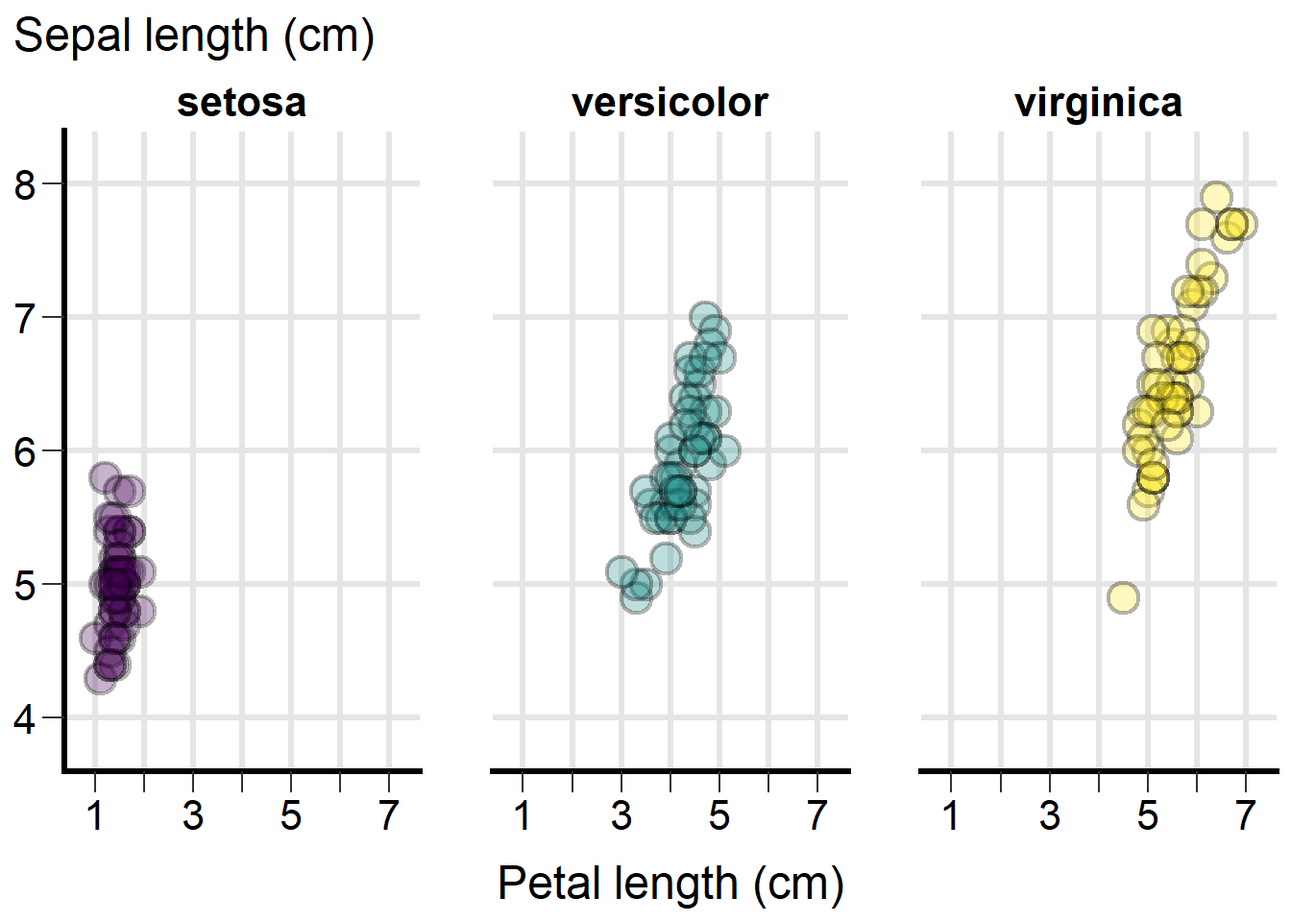
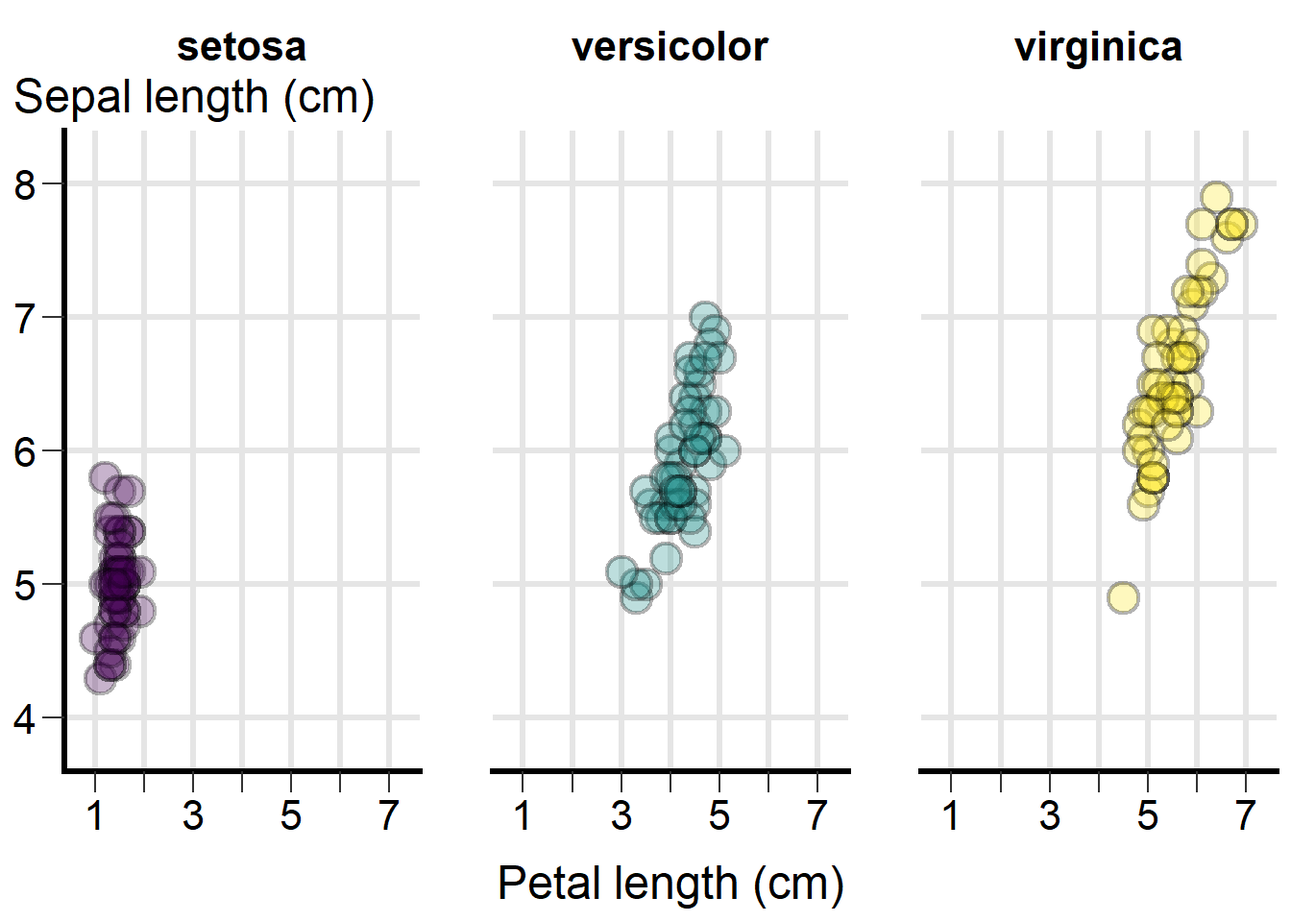
Bringing manual and readme up to 0.1.9.

diff --git a/docs/index.html b/docs/index.html
@@ -112,7 +112,7 @@ pre > code.sourceCode > span > a:first-child::before { text-decoration: underlin
 <div class="cell-output cell-output-stdout">
 <pre><code>
 ── R CMD build ─────────────────────────────────────────────────────────────────
-* checking for file 'C:\Users\Bajcz\AppData\Local\Temp\RtmpOQ6aFn\remotes190cdba5567\MAISRC-ggplot_plus-829415d/DESCRIPTION' ... OK
+* checking for file 'C:\Users\Bajcz\AppData\Local\Temp\Rtmpgpp96x\remotes427c5818649c\MAISRC-ggplot_plus-2eac06b/DESCRIPTION' ... OK
 * preparing 'ggplot.plus':
 * checking DESCRIPTION meta-information ... OK
 * checking for LF line-endings in source and make files and shell scripts
@@ -704,7 +704,7 @@ However, <code>palettes_plus()</code> excludes, by default, both the darkest pur
 </div>
 </div>
 </div>
-<p>Here’s how you’d relocate the legend to its normal position. But, if you do this, I’d adjust some of its spacing settings also, as the defaults are built for horizontal rather than vertical orientation:</p>
+<p>Here’s how you’d relocate the legend to its normal position–the theme will automatically apply some styling unique to this position instead:</p>
 <div class="cell">
 <div class="sourceCode cell-code" id="cb26"><pre class="sourceCode r code-with-copy"><code class="sourceCode r"><span id="cb26-1"><a href="#cb26-1" aria-hidden="true" tabindex="-1"></a><span class="fu">ggplot</span>(iris,</span>
 <span id="cb26-2"><a href="#cb26-2" aria-hidden="true" tabindex="-1"></a>       <span class="at">mapping =</span> <span class="fu">aes</span>(<span class="at">x =</span> Petal.Length, </span>
@@ -714,7 +714,7 @@ However, <code>palettes_plus()</code> excludes, by default, both the darkest pur
 <span id="cb26-6"><a href="#cb26-6" aria-hidden="true" tabindex="-1"></a>            <span class="at">alpha =</span> <span class="fl">0.3</span>) <span class="sc">+</span></span>
 <span id="cb26-7"><a href="#cb26-7" aria-hidden="true" tabindex="-1"></a>  <span class="fu">scale_x_continuous_plus</span>(<span class="at">name =</span> <span class="st">"Petal length (cm)"</span>, <span class="at">thin_labels =</span> <span class="cn">TRUE</span>) <span class="sc">+</span></span>
 <span id="cb26-8"><a href="#cb26-8" aria-hidden="true" tabindex="-1"></a>  <span class="fu">scale_y_continuous_plus</span>(<span class="at">name =</span> <span class="st">"Sepal length (cm)"</span>) <span class="sc">+</span> </span>
-<span id="cb26-9"><a href="#cb26-9" aria-hidden="true" tabindex="-1"></a>  <span class="fu">theme_plus</span>(<span class="at">legend_pos =</span> <span class="cn">FALSE</span>) <span class="co">#&lt;--ANY VALUE OTHER THAN THE DEFAULT "top" RESTORES ENSURES RIGHT-HAND LEGEND. </span></span></code><button title="Copy to Clipboard" class="code-copy-button"><i class="bi"></i></button></pre></div>
+<span id="cb26-9"><a href="#cb26-9" aria-hidden="true" tabindex="-1"></a>  <span class="fu">theme_plus</span>(<span class="at">legend_pos =</span> <span class="cn">FALSE</span>) <span class="co">#&lt;--ANY VALUE OTHER THAN THE DEFAULT "top" RESTORES RIGHT-HAND LEGEND. </span></span></code><button title="Copy to Clipboard" class="code-copy-button"><i class="bi"></i></button></pre></div>
 <div class="cell-output-display">
 <div>
 <figure class="figure">
@@ -723,7 +723,7 @@ However, <code>palettes_plus()</code> excludes, by default, both the darkest pur
 </div>
 </div>
 </div>
-<p>Personally, I don’t really like this…it feels a bit wasteful in terms of space. But if you like it, that’s ultimately what matters! Like the rest of the <code>ggplot.plus</code> toolkit, <code>theme_plus()</code> is meant to be a smart starting point, <strong>not</strong> a “final destination.” Its outputs won’t be ideal for every plot, person, or context (I don’t think that’s even remotely possible!), but it’s designed to save you time by making it so there are at least <em>fewer</em> adjustments you need to make to get your graphs up to modern design standards.</p>
+<p>Personally, I don’t really like this, but it’s an option if you really prefer it! Like the rest of the <code>ggplot.plus</code> toolkit, <code>theme_plus()</code> is meant to be a smart starting point, <strong>not</strong> a “final destination.” Its outputs won’t be ideal for every plot, person, or context (I don’t think that’s even remotely possible!), but it’s designed to save you time by making it so there are at least <em>fewer</em> adjustments you need to make to get your graphs up to modern design standards.</p>
 <p>There are a few theme considerations that apply only to color bars, which are the legend components you see when you map <code>color</code> or <code>fill</code> to a continuous variable. Let’s map a continuous variable to <code>fill</code> to get such a legend:</p>
 <div class="cell">
 <div class="sourceCode cell-code" id="cb27"><pre class="sourceCode r code-with-copy"><code class="sourceCode r"><span id="cb27-1"><a href="#cb27-1" aria-hidden="true" tabindex="-1"></a><span class="fu">ggplot</span>(iris,</span>
@@ -1309,7 +1309,8 @@ inside geom_plus() to TRUE to hide this and other messages.</code></pre>
 <span id="cb51-8"><a href="#cb51-8" aria-hidden="true" tabindex="-1"></a>  <span class="fu">theme_plus</span>() <span class="sc">+</span> </span>
 <span id="cb51-9"><a href="#cb51-9" aria-hidden="true" tabindex="-1"></a>  <span class="fu">yaxis_title_plus</span>() <span class="sc">+</span></span>
 <span id="cb51-10"><a href="#cb51-10" aria-hidden="true" tabindex="-1"></a>  <span class="fu">gridlines_plus</span>() <span class="sc">+</span></span>
-<span id="cb51-11"><a href="#cb51-11" aria-hidden="true" tabindex="-1"></a>  <span class="fu">scale_alpha</span>(<span class="at">guide =</span> <span class="st">"none"</span>)</span></code><button title="Copy to Clipboard" class="code-copy-button"><i class="bi"></i></button></pre></div>
+<span id="cb51-11"><a href="#cb51-11" aria-hidden="true" tabindex="-1"></a>  <span class="fu">scale_alpha</span>(<span class="at">guide =</span> <span class="st">"none"</span>) <span class="sc">+</span></span>
+<span id="cb51-12"><a href="#cb51-12" aria-hidden="true" tabindex="-1"></a>  <span class="fu">labs</span>(<span class="at">fill =</span> <span class="st">"Petal width (cm)"</span>) <span class="co">#&lt;--TO SATISFY THE PREVIOUS </span><span class="al">WARNING</span><span class="co">.</span></span></code><button title="Copy to Clipboard" class="code-copy-button"><i class="bi"></i></button></pre></div>
 <div class="cell-output cell-output-stderr">
 <pre><code>Warning: Petal.Width, the variable you mapped to fill, has 22 unique levels.
 Even with a high-quality palette, it's difficult to ensure all colors chosen
@@ -1318,15 +1319,6 @@ such cases, consider using a different visual channel, intersecting another
 visual channel (e.g., shape) with color, or reducing the number of groups
 shown. Set silence_warnings inside geom_plus() to TRUE to hide this and other
 messages.</code></pre>
-</div>
-<div class="cell-output cell-output-stderr">
-<pre><code>Warning: It looks like you haven't provided a custom title for variable(s)
-Petal.Width, mapped to the following aesthetic(s), respectively: fill. This
-means the title(s) are probably still the column name(s) from your data set,
-which may not be human-readable, nicely formatted, and intuitive and contain
-units (if any). We recommend using a scale*() function to specify a custom
-title for each such scale. Set silence_warnings inside geom_plus() to TRUE to
-hide this and other messages.</code></pre>
 </div>
 <div class="cell-output-display">
 <div>
@@ -1343,18 +1335,18 @@ hide this and other messages.</code></pre>
 <h2 class="anchored" data-anchor-id="known-issues">Known Issues</h2>
 <p>There’s a known limitation when using <code>yaxis_title_plus()</code> alongside a <strong>top-positioned x-axis</strong>. The relocated y-axis title will end up in the same horizontal “row” as the top x axis labels, causing them to clip into each other:</p>
 <div class="cell">
-<div class="sourceCode cell-code" id="cb54"><pre class="sourceCode r code-with-copy"><code class="sourceCode r"><span id="cb54-1"><a href="#cb54-1" aria-hidden="true" tabindex="-1"></a><span class="fu">ggplot</span>(iris,</span>
-<span id="cb54-2"><a href="#cb54-2" aria-hidden="true" tabindex="-1"></a>       <span class="at">mapping =</span> <span class="fu">aes</span>(<span class="at">x =</span> Petal.Length, </span>
-<span id="cb54-3"><a href="#cb54-3" aria-hidden="true" tabindex="-1"></a>           <span class="at">y =</span> Sepal.Length)) <span class="sc">+</span></span>
-<span id="cb54-4"><a href="#cb54-4" aria-hidden="true" tabindex="-1"></a>  <span class="fu">geom_plus</span>(<span class="at">geom =</span> <span class="st">"point"</span>, </span>
-<span id="cb54-5"><a href="#cb54-5" aria-hidden="true" tabindex="-1"></a>            <span class="at">mapping =</span> <span class="fu">aes</span>(<span class="at">fill =</span> Species),</span>
-<span id="cb54-6"><a href="#cb54-6" aria-hidden="true" tabindex="-1"></a>            <span class="at">alpha =</span> <span class="fl">0.3</span>) <span class="sc">+</span></span>
-<span id="cb54-7"><a href="#cb54-7" aria-hidden="true" tabindex="-1"></a>  <span class="fu">scale_x_continuous_plus</span>(<span class="at">name =</span> <span class="st">"Petal length (cm)"</span>, <span class="at">thin_labels =</span> <span class="cn">TRUE</span>,</span>
-<span id="cb54-8"><a href="#cb54-8" aria-hidden="true" tabindex="-1"></a>                          <span class="at">position =</span> <span class="st">"top"</span>) <span class="sc">+</span> <span class="co">#&lt;--MOVE X AXIS TO TOP OF THE GRAPH</span></span>
-<span id="cb54-9"><a href="#cb54-9" aria-hidden="true" tabindex="-1"></a>  <span class="fu">scale_y_continuous_plus</span>(<span class="at">name =</span> <span class="st">"Sepal length (cm)"</span>) <span class="sc">+</span> </span>
-<span id="cb54-10"><a href="#cb54-10" aria-hidden="true" tabindex="-1"></a>  <span class="fu">theme_plus</span>() <span class="sc">+</span> </span>
-<span id="cb54-11"><a href="#cb54-11" aria-hidden="true" tabindex="-1"></a>  <span class="fu">yaxis_title_plus</span>() <span class="sc">+</span></span>
-<span id="cb54-12"><a href="#cb54-12" aria-hidden="true" tabindex="-1"></a>  <span class="fu">gridlines_plus</span>()</span></code><button title="Copy to Clipboard" class="code-copy-button"><i class="bi"></i></button></pre></div>
+<div class="sourceCode cell-code" id="cb53"><pre class="sourceCode r code-with-copy"><code class="sourceCode r"><span id="cb53-1"><a href="#cb53-1" aria-hidden="true" tabindex="-1"></a><span class="fu">ggplot</span>(iris,</span>
+<span id="cb53-2"><a href="#cb53-2" aria-hidden="true" tabindex="-1"></a>       <span class="at">mapping =</span> <span class="fu">aes</span>(<span class="at">x =</span> Petal.Length, </span>
+<span id="cb53-3"><a href="#cb53-3" aria-hidden="true" tabindex="-1"></a>           <span class="at">y =</span> Sepal.Length)) <span class="sc">+</span></span>
+<span id="cb53-4"><a href="#cb53-4" aria-hidden="true" tabindex="-1"></a>  <span class="fu">geom_plus</span>(<span class="at">geom =</span> <span class="st">"point"</span>, </span>
+<span id="cb53-5"><a href="#cb53-5" aria-hidden="true" tabindex="-1"></a>            <span class="at">mapping =</span> <span class="fu">aes</span>(<span class="at">fill =</span> Species),</span>
+<span id="cb53-6"><a href="#cb53-6" aria-hidden="true" tabindex="-1"></a>            <span class="at">alpha =</span> <span class="fl">0.3</span>) <span class="sc">+</span></span>
+<span id="cb53-7"><a href="#cb53-7" aria-hidden="true" tabindex="-1"></a>  <span class="fu">scale_x_continuous_plus</span>(<span class="at">name =</span> <span class="st">"Petal length (cm)"</span>, <span class="at">thin_labels =</span> <span class="cn">TRUE</span>,</span>
+<span id="cb53-8"><a href="#cb53-8" aria-hidden="true" tabindex="-1"></a>                          <span class="at">position =</span> <span class="st">"top"</span>) <span class="sc">+</span> <span class="co">#&lt;--MOVE X AXIS TO TOP OF THE GRAPH</span></span>
+<span id="cb53-9"><a href="#cb53-9" aria-hidden="true" tabindex="-1"></a>  <span class="fu">scale_y_continuous_plus</span>(<span class="at">name =</span> <span class="st">"Sepal length (cm)"</span>) <span class="sc">+</span> </span>
+<span id="cb53-10"><a href="#cb53-10" aria-hidden="true" tabindex="-1"></a>  <span class="fu">theme_plus</span>() <span class="sc">+</span> </span>
+<span id="cb53-11"><a href="#cb53-11" aria-hidden="true" tabindex="-1"></a>  <span class="fu">yaxis_title_plus</span>() <span class="sc">+</span></span>
+<span id="cb53-12"><a href="#cb53-12" aria-hidden="true" tabindex="-1"></a>  <span class="fu">gridlines_plus</span>()</span></code><button title="Copy to Clipboard" class="code-copy-button"><i class="bi"></i></button></pre></div>
 <div class="cell-output cell-output-stderr">
 <pre><code>Warning: It looks like you haven't provided a custom title for variable(s)
 Species, mapped to the following aesthetic(s), respectively: fill. This means
@@ -1380,18 +1372,18 @@ Alternatively, set "location = 'bottom'" in switch_y_axis().</code></pre>
 </div>
 <p>You’ll notice that <code>yaxis_title_plus()</code> provides a warning in this case and gives you a suggestion as to how to work around it: you can use the <code>location = "bottom"</code> option in <code>yaxis_title_plus()</code> to relocate the y title beneath the plot instead:</p>
 <div class="cell">
-<div class="sourceCode cell-code" id="cb57"><pre class="sourceCode r code-with-copy"><code class="sourceCode r"><span id="cb57-1"><a href="#cb57-1" aria-hidden="true" tabindex="-1"></a><span class="fu">ggplot</span>(iris,</span>
-<span id="cb57-2"><a href="#cb57-2" aria-hidden="true" tabindex="-1"></a>       <span class="at">mapping =</span> <span class="fu">aes</span>(<span class="at">x =</span> Petal.Length, </span>
-<span id="cb57-3"><a href="#cb57-3" aria-hidden="true" tabindex="-1"></a>           <span class="at">y =</span> Sepal.Length)) <span class="sc">+</span></span>
-<span id="cb57-4"><a href="#cb57-4" aria-hidden="true" tabindex="-1"></a>  <span class="fu">geom_plus</span>(<span class="at">geom =</span> <span class="st">"point"</span>, </span>
-<span id="cb57-5"><a href="#cb57-5" aria-hidden="true" tabindex="-1"></a>            <span class="at">mapping =</span> <span class="fu">aes</span>(<span class="at">fill =</span> Species),</span>
-<span id="cb57-6"><a href="#cb57-6" aria-hidden="true" tabindex="-1"></a>            <span class="at">alpha =</span> <span class="fl">0.3</span>) <span class="sc">+</span></span>
-<span id="cb57-7"><a href="#cb57-7" aria-hidden="true" tabindex="-1"></a>  <span class="fu">scale_x_continuous_plus</span>(<span class="at">name =</span> <span class="st">"Petal length (cm)"</span>, <span class="at">thin_labels =</span> <span class="cn">TRUE</span>,</span>
-<span id="cb57-8"><a href="#cb57-8" aria-hidden="true" tabindex="-1"></a>                          <span class="at">position =</span> <span class="st">"top"</span>) <span class="sc">+</span> </span>
-<span id="cb57-9"><a href="#cb57-9" aria-hidden="true" tabindex="-1"></a>  <span class="fu">scale_y_continuous_plus</span>(<span class="at">name =</span> <span class="st">"Sepal length (cm)"</span>) <span class="sc">+</span> </span>
-<span id="cb57-10"><a href="#cb57-10" aria-hidden="true" tabindex="-1"></a>  <span class="fu">theme_plus</span>() <span class="sc">+</span></span>
-<span id="cb57-11"><a href="#cb57-11" aria-hidden="true" tabindex="-1"></a>  <span class="fu">yaxis_title_plus</span>(<span class="at">location =</span> <span class="st">"bottom"</span>) <span class="sc">+</span> <span class="co">#&lt;--MOVE  Y AXIS TITLE TO BOTTOM INSTEAD</span></span>
-<span id="cb57-12"><a href="#cb57-12" aria-hidden="true" tabindex="-1"></a>  <span class="fu">gridlines_plus</span>()</span></code><button title="Copy to Clipboard" class="code-copy-button"><i class="bi"></i></button></pre></div>
+<div class="sourceCode cell-code" id="cb56"><pre class="sourceCode r code-with-copy"><code class="sourceCode r"><span id="cb56-1"><a href="#cb56-1" aria-hidden="true" tabindex="-1"></a><span class="fu">ggplot</span>(iris,</span>
+<span id="cb56-2"><a href="#cb56-2" aria-hidden="true" tabindex="-1"></a>       <span class="at">mapping =</span> <span class="fu">aes</span>(<span class="at">x =</span> Petal.Length, </span>
+<span id="cb56-3"><a href="#cb56-3" aria-hidden="true" tabindex="-1"></a>           <span class="at">y =</span> Sepal.Length)) <span class="sc">+</span></span>
+<span id="cb56-4"><a href="#cb56-4" aria-hidden="true" tabindex="-1"></a>  <span class="fu">geom_plus</span>(<span class="at">geom =</span> <span class="st">"point"</span>, </span>
+<span id="cb56-5"><a href="#cb56-5" aria-hidden="true" tabindex="-1"></a>            <span class="at">mapping =</span> <span class="fu">aes</span>(<span class="at">fill =</span> Species),</span>
+<span id="cb56-6"><a href="#cb56-6" aria-hidden="true" tabindex="-1"></a>            <span class="at">alpha =</span> <span class="fl">0.3</span>) <span class="sc">+</span></span>
+<span id="cb56-7"><a href="#cb56-7" aria-hidden="true" tabindex="-1"></a>  <span class="fu">scale_x_continuous_plus</span>(<span class="at">name =</span> <span class="st">"Petal length (cm)"</span>, <span class="at">thin_labels =</span> <span class="cn">TRUE</span>,</span>
+<span id="cb56-8"><a href="#cb56-8" aria-hidden="true" tabindex="-1"></a>                          <span class="at">position =</span> <span class="st">"top"</span>) <span class="sc">+</span> </span>
+<span id="cb56-9"><a href="#cb56-9" aria-hidden="true" tabindex="-1"></a>  <span class="fu">scale_y_continuous_plus</span>(<span class="at">name =</span> <span class="st">"Sepal length (cm)"</span>) <span class="sc">+</span> </span>
+<span id="cb56-10"><a href="#cb56-10" aria-hidden="true" tabindex="-1"></a>  <span class="fu">theme_plus</span>() <span class="sc">+</span></span>
+<span id="cb56-11"><a href="#cb56-11" aria-hidden="true" tabindex="-1"></a>  <span class="fu">yaxis_title_plus</span>(<span class="at">location =</span> <span class="st">"bottom"</span>) <span class="sc">+</span> <span class="co">#&lt;--MOVE  Y AXIS TITLE TO BOTTOM INSTEAD</span></span>
+<span id="cb56-12"><a href="#cb56-12" aria-hidden="true" tabindex="-1"></a>  <span class="fu">gridlines_plus</span>()</span></code><button title="Copy to Clipboard" class="code-copy-button"><i class="bi"></i></button></pre></div>
 <div class="cell-output-display">
 <div>
 <figure class="figure">
@@ -1400,27 +1392,27 @@ Alternatively, set "location = 'bottom'" in switch_y_axis().</code></pre>
 </div>
 </div>
 </div>
-<p>This feels a little “backwards” to me at first, but it works!</p>
+<p>This feels a little “backwards” to us, but it works. Maybe it’d make good sense in a specific context wherein this reversing of the graph’s standard schema aids reader intuition.</p>
 <p>Now, if you instead <em>duplicate</em> the x-axis on <strong>both top and bottom</strong> or have a secondary x axis on the top, you won’t be able to relocate the y-axis title easily. In that case, the best fallback is probably to stick with the horizontal y-axis title broken across as many lines as possible using line breaks (<code>\n</code>), as shown earlier.</p>
 <section id="idealized-scatterplot-for-reference" class="level3">
 <h3 class="anchored" data-anchor-id="idealized-scatterplot-for-reference">Idealized scatterplot for reference</h3>
 <p>Here’s a “final” version of our scatterplot using all of <code>ggplot.plus</code>’s tools together:</p>
 <div class="cell">
-<div class="sourceCode cell-code" id="cb58"><pre class="sourceCode r code-with-copy"><code class="sourceCode r"><span id="cb58-1"><a href="#cb58-1" aria-hidden="true" tabindex="-1"></a><span class="fu">palettes_plus</span>(<span class="at">begin_discrete =</span> <span class="dv">0</span>, </span>
-<span id="cb58-2"><a href="#cb58-2" aria-hidden="true" tabindex="-1"></a>              <span class="at">end_discrete =</span> <span class="dv">1</span>)</span>
-<span id="cb58-3"><a href="#cb58-3" aria-hidden="true" tabindex="-1"></a><span class="fu">ggplot</span>(iris,</span>
-<span id="cb58-4"><a href="#cb58-4" aria-hidden="true" tabindex="-1"></a>       <span class="at">mapping =</span> <span class="fu">aes</span>(<span class="at">x =</span> Petal.Length, </span>
-<span id="cb58-5"><a href="#cb58-5" aria-hidden="true" tabindex="-1"></a>           <span class="at">y =</span> Sepal.Length)) <span class="sc">+</span></span>
-<span id="cb58-6"><a href="#cb58-6" aria-hidden="true" tabindex="-1"></a>  <span class="fu">geom_plus</span>(<span class="at">geom =</span> <span class="st">"point"</span>, </span>
-<span id="cb58-7"><a href="#cb58-7" aria-hidden="true" tabindex="-1"></a>            <span class="at">mapping =</span> <span class="fu">aes</span>(<span class="at">fill =</span> Species, </span>
-<span id="cb58-8"><a href="#cb58-8" aria-hidden="true" tabindex="-1"></a>                          <span class="at">alpha =</span> <span class="fl">0.3</span>),</span>
-<span id="cb58-9"><a href="#cb58-9" aria-hidden="true" tabindex="-1"></a>            <span class="at">silence_warnings =</span> <span class="cn">TRUE</span>) <span class="sc">+</span> <span class="co">#&lt;--OTHERWISE, Species WILL TRIGGER A </span><span class="al">WARNING</span><span class="co">.</span></span>
-<span id="cb58-10"><a href="#cb58-10" aria-hidden="true" tabindex="-1"></a>  <span class="fu">scale_x_continuous_plus</span>(<span class="at">name =</span> <span class="st">"Petal length (cm)"</span>, <span class="at">thin_labels =</span> <span class="cn">TRUE</span>) <span class="sc">+</span></span>
-<span id="cb58-11"><a href="#cb58-11" aria-hidden="true" tabindex="-1"></a>  <span class="fu">scale_y_continuous_plus</span>(<span class="at">name =</span> <span class="st">"Sepal length (cm)"</span>) <span class="sc">+</span> </span>
-<span id="cb58-12"><a href="#cb58-12" aria-hidden="true" tabindex="-1"></a>  <span class="fu">theme_plus</span>() <span class="sc">+</span> </span>
-<span id="cb58-13"><a href="#cb58-13" aria-hidden="true" tabindex="-1"></a>  <span class="fu">yaxis_title_plus</span>() <span class="sc">+</span></span>
-<span id="cb58-14"><a href="#cb58-14" aria-hidden="true" tabindex="-1"></a>  <span class="fu">gridlines_plus</span>() <span class="sc">+</span></span>
-<span id="cb58-15"><a href="#cb58-15" aria-hidden="true" tabindex="-1"></a>  <span class="fu">scale_alpha</span>(<span class="at">guide =</span> <span class="st">"none"</span>)</span></code><button title="Copy to Clipboard" class="code-copy-button"><i class="bi"></i></button></pre></div>
+<div class="sourceCode cell-code" id="cb57"><pre class="sourceCode r code-with-copy"><code class="sourceCode r"><span id="cb57-1"><a href="#cb57-1" aria-hidden="true" tabindex="-1"></a><span class="fu">palettes_plus</span>(<span class="at">begin_discrete =</span> <span class="dv">0</span>, </span>
+<span id="cb57-2"><a href="#cb57-2" aria-hidden="true" tabindex="-1"></a>              <span class="at">end_discrete =</span> <span class="dv">1</span>)</span>
+<span id="cb57-3"><a href="#cb57-3" aria-hidden="true" tabindex="-1"></a><span class="fu">ggplot</span>(iris,</span>
+<span id="cb57-4"><a href="#cb57-4" aria-hidden="true" tabindex="-1"></a>       <span class="at">mapping =</span> <span class="fu">aes</span>(<span class="at">x =</span> Petal.Length, </span>
+<span id="cb57-5"><a href="#cb57-5" aria-hidden="true" tabindex="-1"></a>           <span class="at">y =</span> Sepal.Length)) <span class="sc">+</span></span>
+<span id="cb57-6"><a href="#cb57-6" aria-hidden="true" tabindex="-1"></a>  <span class="fu">geom_plus</span>(<span class="at">geom =</span> <span class="st">"point"</span>, </span>
+<span id="cb57-7"><a href="#cb57-7" aria-hidden="true" tabindex="-1"></a>            <span class="at">mapping =</span> <span class="fu">aes</span>(<span class="at">fill =</span> Species, </span>
+<span id="cb57-8"><a href="#cb57-8" aria-hidden="true" tabindex="-1"></a>                          <span class="at">alpha =</span> <span class="fl">0.3</span>),</span>
+<span id="cb57-9"><a href="#cb57-9" aria-hidden="true" tabindex="-1"></a>            <span class="at">silence_warnings =</span> <span class="cn">TRUE</span>) <span class="sc">+</span> <span class="co">#&lt;--OTHERWISE, Species WILL TRIGGER A </span><span class="al">WARNING</span><span class="co">.</span></span>
+<span id="cb57-10"><a href="#cb57-10" aria-hidden="true" tabindex="-1"></a>  <span class="fu">scale_x_continuous_plus</span>(<span class="at">name =</span> <span class="st">"Petal length (cm)"</span>, <span class="at">thin_labels =</span> <span class="cn">TRUE</span>) <span class="sc">+</span></span>
+<span id="cb57-11"><a href="#cb57-11" aria-hidden="true" tabindex="-1"></a>  <span class="fu">scale_y_continuous_plus</span>(<span class="at">name =</span> <span class="st">"Sepal length (cm)"</span>) <span class="sc">+</span> </span>
+<span id="cb57-12"><a href="#cb57-12" aria-hidden="true" tabindex="-1"></a>  <span class="fu">theme_plus</span>() <span class="sc">+</span> </span>
+<span id="cb57-13"><a href="#cb57-13" aria-hidden="true" tabindex="-1"></a>  <span class="fu">yaxis_title_plus</span>() <span class="sc">+</span></span>
+<span id="cb57-14"><a href="#cb57-14" aria-hidden="true" tabindex="-1"></a>  <span class="fu">gridlines_plus</span>() <span class="sc">+</span></span>
+<span id="cb57-15"><a href="#cb57-15" aria-hidden="true" tabindex="-1"></a>  <span class="fu">scale_alpha</span>(<span class="at">guide =</span> <span class="st">"none"</span>)</span></code><button title="Copy to Clipboard" class="code-copy-button"><i class="bi"></i></button></pre></div>
 <div class="cell-output-display">
 <div>
 <figure class="figure">

diff --git a/readme.html b/readme.html
@@ -7,7 +7,7 @@
 <meta name="viewport" content="width=device-width, initial-scale=1.0, user-scalable=yes">
 
 <meta name="author" content="Dr.&nbsp;Alex Bajcz, Quantitative Ecologist, Minnesota Aquatic Invasive Species Research Center">
-<meta name="dcterms.date" content="2025-07-09">
+<meta name="dcterms.date" content="2025-07-10">
 
 <title>ggplot.plus Readme and Quick-Start Guide</title>
 <style>
@@ -99,7 +99,7 @@ pre > code.sourceCode > span > a:first-child::before { text-decoration: underlin
     <div>
     <div class="quarto-title-meta-heading">Published</div>
     <div class="quarto-title-meta-contents">
-      <p class="date">July 9, 2025</p>
+      <p class="date">July 10, 2025</p>
     </div>
   </div>
   
@@ -117,76 +117,23 @@ pre > code.sourceCode > span > a:first-child::before { text-decoration: underlin
 <div class="cell">
 <div class="sourceCode cell-code" id="cb1"><pre class="sourceCode r code-with-copy"><code class="sourceCode r"><span id="cb1-1"><a href="#cb1-1" aria-hidden="true" tabindex="-1"></a><span class="co"># install.packages("devtools")  # if not already installed</span></span>
 <span id="cb1-2"><a href="#cb1-2" aria-hidden="true" tabindex="-1"></a>devtools<span class="sc">::</span><span class="fu">install_github</span>(<span class="st">"https://github.com/MAISRC/ggplot_plus"</span>) <span class="co">#&lt;--</span><span class="al">NOTE</span><span class="co"> THE _ INSTEAD OF THE . IN THE NAME.</span></span></code><button title="Copy to Clipboard" class="code-copy-button"><i class="bi"></i></button></pre></div>
-<div class="cell-output cell-output-stdout">
-<pre><code>Rcpp (1.0.14 -&gt; 1.1.0 ) [CRAN]
-sf   (1.0-20 -&gt; 1.0-21) [CRAN]</code></pre>
-</div>
-<div class="cell-output cell-output-stdout">
-<pre><code>package 'Rcpp' successfully unpacked and MD5 sums checked</code></pre>
-</div>
-<div class="cell-output cell-output-stderr">
-<pre><code>Warning: cannot remove prior installation of package 'Rcpp'</code></pre>
-</div>
-<div class="cell-output cell-output-stderr">
-<pre><code>Warning in file.copy(savedcopy, lib, recursive = TRUE): problem copying
-C:\Users\Bajcz\AppData\Local\R\win-library\4.5\00LOCK\Rcpp\libs\x64\Rcpp.dll to
-C:\Users\Bajcz\AppData\Local\R\win-library\4.5\Rcpp\libs\x64\Rcpp.dll:
-Permission denied</code></pre>
-</div>
-<div class="cell-output cell-output-stderr">
-<pre><code>Warning: restored 'Rcpp'</code></pre>
-</div>
-<div class="cell-output cell-output-stdout">
-<pre><code>package 'sf' successfully unpacked and MD5 sums checked</code></pre>
-</div>
-<div class="cell-output cell-output-stderr">
-<pre><code>Warning: cannot remove prior installation of package 'sf'</code></pre>
-</div>
-<div class="cell-output cell-output-stderr">
-<pre><code>Warning in file.copy(savedcopy, lib, recursive = TRUE): problem copying
-C:\Users\Bajcz\AppData\Local\R\win-library\4.5\00LOCK\sf\libs\x64\sf.dll to
-C:\Users\Bajcz\AppData\Local\R\win-library\4.5\sf\libs\x64\sf.dll: Permission
-denied</code></pre>
-</div>
-<div class="cell-output cell-output-stderr">
-<pre><code>Warning: restored 'sf'</code></pre>
-</div>
-<div class="cell-output cell-output-stdout">
-<pre><code>
-The downloaded binary packages are in
-    C:\Users\Bajcz\AppData\Local\Temp\RtmpmEzajN\downloaded_packages
-── R CMD build ─────────────────────────────────────────────────────────────────
-* checking for file 'C:\Users\Bajcz\AppData\Local\Temp\RtmpmEzajN\remotes36246914f0b\MAISRC-ggplot_plus-21de746/DESCRIPTION' ... OK
-* preparing 'ggplot.plus':
-* checking DESCRIPTION meta-information ... OK
-* checking for LF line-endings in source and make files and shell scripts
-* checking for empty or unneeded directories
-Omitted 'LazyData' from DESCRIPTION
-  NB: this package now depends on R (&gt;= 4.1.0)
-  WARNING: Added dependency on R &gt;= 4.1.0 because package code uses the
-  pipe |&gt; or function shorthand \(...) syntax added in R 4.1.0.
-  File(s) using such syntax:
-    'geom_point_plus.R'
-* building 'ggplot.plus_0.1.8.tar.gz'
-</code></pre>
-</div>
 </div>
 <p>Then, load it alongside <code>ggplot2</code>:</p>
 <div class="cell">
-<div class="sourceCode cell-code" id="cb12"><pre class="sourceCode r code-with-copy"><code class="sourceCode r"><span id="cb12-1"><a href="#cb12-1" aria-hidden="true" tabindex="-1"></a><span class="co"># install.packages("ggplot2")  # if not already installed</span></span>
-<span id="cb12-2"><a href="#cb12-2" aria-hidden="true" tabindex="-1"></a><span class="fu">library</span>(ggplot2)</span>
-<span id="cb12-3"><a href="#cb12-3" aria-hidden="true" tabindex="-1"></a><span class="fu">library</span>(ggplot.plus)</span></code><button title="Copy to Clipboard" class="code-copy-button"><i class="bi"></i></button></pre></div>
+<div class="sourceCode cell-code" id="cb2"><pre class="sourceCode r code-with-copy"><code class="sourceCode r"><span id="cb2-1"><a href="#cb2-1" aria-hidden="true" tabindex="-1"></a><span class="co"># install.packages("ggplot2")  # if not already installed</span></span>
+<span id="cb2-2"><a href="#cb2-2" aria-hidden="true" tabindex="-1"></a><span class="fu">library</span>(ggplot2)</span>
+<span id="cb2-3"><a href="#cb2-3" aria-hidden="true" tabindex="-1"></a><span class="fu">library</span>(ggplot.plus)</span></code><button title="Copy to Clipboard" class="code-copy-button"><i class="bi"></i></button></pre></div>
 </div>
 <p>Once loaded, you can start layering in the “plus” tools to improve your plot design with minimal effort.</p>
 <section id="using-the-tools" class="level3">
 <h3 class="anchored" data-anchor-id="using-the-tools">Using the tools</h3>
 <p>Just by loading <code>ggplot.plus</code>, you will switch your session’s default color palette to one that is more broadly accessible–there’s no need to call <code>palettes_plus()</code> to alter this palette unless you want to (see the “Accessible Color Palettes” section for details):</p>
 <div class="cell">
-<div class="sourceCode cell-code" id="cb13"><pre class="sourceCode r code-with-copy"><code class="sourceCode r"><span id="cb13-1"><a href="#cb13-1" aria-hidden="true" tabindex="-1"></a><span class="co">#A BASIC GGPLOT SCATTERPLOT, EXCEPT USING ggplot.plus's DEFAULT COLOR PALETTE INSTEAD.</span></span>
-<span id="cb13-2"><a href="#cb13-2" aria-hidden="true" tabindex="-1"></a><span class="fu">ggplot</span>(iris, </span>
-<span id="cb13-3"><a href="#cb13-3" aria-hidden="true" tabindex="-1"></a>       <span class="at">mapping =</span> <span class="fu">aes</span>(<span class="at">x =</span> Petal.Length, </span>
-<span id="cb13-4"><a href="#cb13-4" aria-hidden="true" tabindex="-1"></a>                     <span class="at">y =</span> Sepal.Length)) <span class="sc">+</span></span>
-<span id="cb13-5"><a href="#cb13-5" aria-hidden="true" tabindex="-1"></a>  <span class="fu">geom_point</span>(<span class="at">mapping =</span> <span class="fu">aes</span>(<span class="at">color =</span> Species))</span></code><button title="Copy to Clipboard" class="code-copy-button"><i class="bi"></i></button></pre></div>
+<div class="sourceCode cell-code" id="cb3"><pre class="sourceCode r code-with-copy"><code class="sourceCode r"><span id="cb3-1"><a href="#cb3-1" aria-hidden="true" tabindex="-1"></a><span class="co">#A BASIC GGPLOT SCATTERPLOT, EXCEPT USING ggplot.plus's DEFAULT COLOR PALETTE INSTEAD.</span></span>
+<span id="cb3-2"><a href="#cb3-2" aria-hidden="true" tabindex="-1"></a><span class="fu">ggplot</span>(iris, </span>
+<span id="cb3-3"><a href="#cb3-3" aria-hidden="true" tabindex="-1"></a>       <span class="at">mapping =</span> <span class="fu">aes</span>(<span class="at">x =</span> Petal.Length, </span>
+<span id="cb3-4"><a href="#cb3-4" aria-hidden="true" tabindex="-1"></a>                     <span class="at">y =</span> Sepal.Length)) <span class="sc">+</span></span>
+<span id="cb3-5"><a href="#cb3-5" aria-hidden="true" tabindex="-1"></a>  <span class="fu">geom_point</span>(<span class="at">mapping =</span> <span class="fu">aes</span>(<span class="at">color =</span> Species))</span></code><button title="Copy to Clipboard" class="code-copy-button"><i class="bi"></i></button></pre></div>
 <div class="cell-output-display">
 <div>
 <figure class="figure">
@@ -197,11 +144,11 @@ Omitted 'LazyData' from DESCRIPTION
 </div>
 <p>To access the tweaks the package makes to <code>ggplot2</code>’s common geometries (“geoms”), convert your <code>geom_*()</code> calls into <code>geom_plus()</code> calls, including the name of the <code>geom</code> for the <code>geom</code> argument:</p>
 <div class="cell">
-<div class="sourceCode cell-code" id="cb14"><pre class="sourceCode r code-with-copy"><code class="sourceCode r"><span id="cb14-1"><a href="#cb14-1" aria-hidden="true" tabindex="-1"></a><span class="fu">ggplot</span>(iris, </span>
-<span id="cb14-2"><a href="#cb14-2" aria-hidden="true" tabindex="-1"></a>       <span class="at">mapping =</span> <span class="fu">aes</span>(<span class="at">x =</span> Petal.Length, </span>
-<span id="cb14-3"><a href="#cb14-3" aria-hidden="true" tabindex="-1"></a>                     <span class="at">y =</span> Sepal.Length)) <span class="sc">+</span></span>
-<span id="cb14-4"><a href="#cb14-4" aria-hidden="true" tabindex="-1"></a>  <span class="fu">geom_plus</span>(<span class="at">geom =</span> <span class="st">"point"</span>, <span class="co">#&lt;--DIFF FUNCTION, NEW GEOM INPUT.</span></span>
-<span id="cb14-5"><a href="#cb14-5" aria-hidden="true" tabindex="-1"></a>            <span class="at">mapping =</span> <span class="fu">aes</span>(<span class="at">color =</span> Species))</span></code><button title="Copy to Clipboard" class="code-copy-button"><i class="bi"></i></button></pre></div>
+<div class="sourceCode cell-code" id="cb4"><pre class="sourceCode r code-with-copy"><code class="sourceCode r"><span id="cb4-1"><a href="#cb4-1" aria-hidden="true" tabindex="-1"></a><span class="fu">ggplot</span>(iris, </span>
+<span id="cb4-2"><a href="#cb4-2" aria-hidden="true" tabindex="-1"></a>       <span class="at">mapping =</span> <span class="fu">aes</span>(<span class="at">x =</span> Petal.Length, </span>
+<span id="cb4-3"><a href="#cb4-3" aria-hidden="true" tabindex="-1"></a>                     <span class="at">y =</span> Sepal.Length)) <span class="sc">+</span></span>
+<span id="cb4-4"><a href="#cb4-4" aria-hidden="true" tabindex="-1"></a>  <span class="fu">geom_plus</span>(<span class="at">geom =</span> <span class="st">"point"</span>, <span class="co">#&lt;--DIFF FUNCTION, NEW GEOM INPUT.</span></span>
+<span id="cb4-5"><a href="#cb4-5" aria-hidden="true" tabindex="-1"></a>            <span class="at">mapping =</span> <span class="fu">aes</span>(<span class="at">color =</span> Species))</span></code><button title="Copy to Clipboard" class="code-copy-button"><i class="bi"></i></button></pre></div>
 <div class="cell-output-display">
 <div>
 <figure class="figure">
@@ -213,18 +160,18 @@ Omitted 'LazyData' from DESCRIPTION
 <p>You can already see that this is a very different graph than what <code>ggplot2</code> would produce by default!</p>
 <p>Everything else the package offers gets turned on when you add (using <code>ggplot2</code>’s usual <code>+</code> operator) the associated function to your <code>ggplot()</code> command:</p>
 <div class="cell">
-<div class="sourceCode cell-code" id="cb15"><pre class="sourceCode r code-with-copy"><code class="sourceCode r"><span id="cb15-1"><a href="#cb15-1" aria-hidden="true" tabindex="-1"></a><span class="fu">ggplot</span>(iris, </span>
-<span id="cb15-2"><a href="#cb15-2" aria-hidden="true" tabindex="-1"></a>       <span class="at">mapping =</span> <span class="fu">aes</span>(<span class="at">x =</span> Petal.Length, </span>
-<span id="cb15-3"><a href="#cb15-3" aria-hidden="true" tabindex="-1"></a>                     <span class="at">y =</span> Sepal.Length)) <span class="sc">+</span></span>
-<span id="cb15-4"><a href="#cb15-4" aria-hidden="true" tabindex="-1"></a>  <span class="fu">geom_plus</span>(<span class="at">geom =</span> <span class="st">"point"</span>, </span>
-<span id="cb15-5"><a href="#cb15-5" aria-hidden="true" tabindex="-1"></a>            <span class="at">mapping =</span> <span class="fu">aes</span>(<span class="at">color =</span> Species)) <span class="sc">+</span> </span>
-<span id="cb15-6"><a href="#cb15-6" aria-hidden="true" tabindex="-1"></a>  <span class="fu">theme_plus</span>() <span class="sc">+</span> <span class="co">#&lt;-OVERHAULS VISUAL THEME</span></span>
-<span id="cb15-7"><a href="#cb15-7" aria-hidden="true" tabindex="-1"></a>  <span class="fu">scale_x_continuous_plus</span>(<span class="st">"Petal length (cm)"</span>,</span>
-<span id="cb15-8"><a href="#cb15-8" aria-hidden="true" tabindex="-1"></a>                          <span class="at">thin_labels =</span> <span class="cn">TRUE</span>) <span class="sc">+</span> <span class="co">#&lt;--OVERHAULS AXIS BREAKS AND LIMITS (FOR CONTINUOUS AXES ONLY!) </span></span>
-<span id="cb15-9"><a href="#cb15-9" aria-hidden="true" tabindex="-1"></a>  <span class="fu">scale_y_continuous_plus</span>(<span class="st">"Sepal length (cm)"</span>) <span class="sc">+</span> <span class="co">#&lt;--SAME FOR Y AXIS.</span></span>
-<span id="cb15-10"><a href="#cb15-10" aria-hidden="true" tabindex="-1"></a>  <span class="fu">yaxis_title_plus</span>() <span class="sc">+</span> <span class="co">#&lt;--RELOCATES AND RE-ORIENTS Y AXIS TITLE.</span></span>
-<span id="cb15-11"><a href="#cb15-11" aria-hidden="true" tabindex="-1"></a>  <span class="fu">gridlines_plus</span>() <span class="sc">+</span> <span class="co">#&lt;--ADDS THOUGHTFUL GRIDLINES, IF YOU *REALLY* WANT THEM.</span></span>
-<span id="cb15-12"><a href="#cb15-12" aria-hidden="true" tabindex="-1"></a>  <span class="fu">labs</span>(<span class="at">color =</span> <span class="fu">expression</span>(<span class="fu">italic</span>(<span class="st">"Iris"</span>)<span class="sc">*</span><span class="st">" species"</span>)) <span class="co">#&lt;--THIS IS BASE GGPLOT2, BUT A NICE TOUCH!</span></span></code><button title="Copy to Clipboard" class="code-copy-button"><i class="bi"></i></button></pre></div>
+<div class="sourceCode cell-code" id="cb5"><pre class="sourceCode r code-with-copy"><code class="sourceCode r"><span id="cb5-1"><a href="#cb5-1" aria-hidden="true" tabindex="-1"></a><span class="fu">ggplot</span>(iris, </span>
+<span id="cb5-2"><a href="#cb5-2" aria-hidden="true" tabindex="-1"></a>       <span class="at">mapping =</span> <span class="fu">aes</span>(<span class="at">x =</span> Petal.Length, </span>
+<span id="cb5-3"><a href="#cb5-3" aria-hidden="true" tabindex="-1"></a>                     <span class="at">y =</span> Sepal.Length)) <span class="sc">+</span></span>
+<span id="cb5-4"><a href="#cb5-4" aria-hidden="true" tabindex="-1"></a>  <span class="fu">geom_plus</span>(<span class="at">geom =</span> <span class="st">"point"</span>, </span>
+<span id="cb5-5"><a href="#cb5-5" aria-hidden="true" tabindex="-1"></a>            <span class="at">mapping =</span> <span class="fu">aes</span>(<span class="at">color =</span> Species)) <span class="sc">+</span> </span>
+<span id="cb5-6"><a href="#cb5-6" aria-hidden="true" tabindex="-1"></a>  <span class="fu">theme_plus</span>() <span class="sc">+</span> <span class="co">#&lt;-OVERHAULS VISUAL THEME</span></span>
+<span id="cb5-7"><a href="#cb5-7" aria-hidden="true" tabindex="-1"></a>  <span class="fu">scale_x_continuous_plus</span>(<span class="st">"Petal length (cm)"</span>,</span>
+<span id="cb5-8"><a href="#cb5-8" aria-hidden="true" tabindex="-1"></a>                          <span class="at">thin_labels =</span> <span class="cn">TRUE</span>) <span class="sc">+</span> <span class="co">#&lt;--OVERHAULS AXIS BREAKS AND LIMITS (FOR CONTINUOUS AXES ONLY!) </span></span>
+<span id="cb5-9"><a href="#cb5-9" aria-hidden="true" tabindex="-1"></a>  <span class="fu">scale_y_continuous_plus</span>(<span class="st">"Sepal length (cm)"</span>) <span class="sc">+</span> <span class="co">#&lt;--SAME FOR Y AXIS.</span></span>
+<span id="cb5-10"><a href="#cb5-10" aria-hidden="true" tabindex="-1"></a>  <span class="fu">yaxis_title_plus</span>() <span class="sc">+</span> <span class="co">#&lt;--RELOCATES AND RE-ORIENTS Y AXIS TITLE.</span></span>
+<span id="cb5-11"><a href="#cb5-11" aria-hidden="true" tabindex="-1"></a>  <span class="fu">gridlines_plus</span>() <span class="sc">+</span> <span class="co">#&lt;--ADDS THOUGHTFUL GRIDLINES, IF YOU *REALLY* WANT THEM.</span></span>
+<span id="cb5-12"><a href="#cb5-12" aria-hidden="true" tabindex="-1"></a>  <span class="fu">labs</span>(<span class="at">color =</span> <span class="fu">expression</span>(<span class="fu">italic</span>(<span class="st">"Iris"</span>)<span class="sc">*</span><span class="st">" species"</span>)) <span class="co">#&lt;--THIS IS BASE GGPLOT2, BUT A NICE TOUCH!</span></span></code><button title="Copy to Clipboard" class="code-copy-button"><i class="bi"></i></button></pre></div>
 <div class="cell-output-display">
 <div>
 <figure class="figure">

diff --git a/README.md b/README.md
@@ -1,7 +1,7 @@
 # README
 Dr. Alex Bajcz, Quantitative Ecologist, Minnesota Aquatic Invasive
 Species Research Center
-2025-07-09
+2025-07-10
 
 ## Quick Start Guide
 
